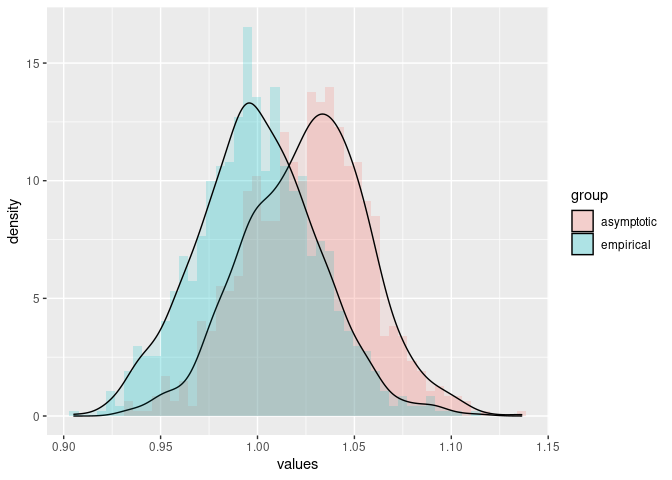
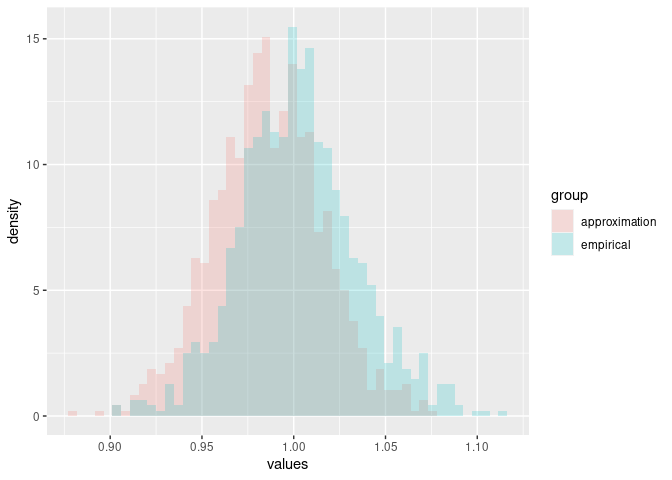
updates

diff --git a/README.md b/README.md
@@ -29,14 +29,6 @@ Consider an exponentially distributed random variable
 ``` r
 library(stats)
 library(tidyverse)
-#> ── Attaching packages ─────────────────────────────────────── tidyverse 1.3.1 ──
-#> ✓ ggplot2 3.3.5     ✓ purrr   0.3.4
-#> ✓ tibble  3.1.6     ✓ dplyr   1.0.7
-#> ✓ tidyr   1.1.4     ✓ stringr 1.4.0
-#> ✓ readr   2.1.1     ✓ forcats 0.5.1
-#> ── Conflicts ────────────────────────────────────────── tidyverse_conflicts() ──
-#> x dplyr::filter() masks stats::filter()
-#> x dplyr::lag()    masks stats::lag()
 n <- 1000
 rate <- 1
 x <- tibble(x=stats::rexp(n,rate))
@@ -48,18 +40,18 @@ from this sample (data frame) with:
 ``` r
 print(x)
 #> # A tibble: 1,000 × 1
-#>          x
-#>      <dbl>
-#>  1 0.283  
-#>  2 0.186  
-#>  3 1.73   
-#>  4 0.618  
-#>  5 0.00966
-#>  6 3.57   
-#>  7 2.42   
-#>  8 0.0681 
-#>  9 0.421  
-#> 10 1.03   
+#>        x
+#>    <dbl>
+#>  1 0.842
+#>  2 0.459
+#>  3 0.597
+#>  4 0.987
+#>  5 1.10 
+#>  6 0.680
+#>  7 0.773
+#>  8 1.59 
+#>  9 1.12 
+#> 10 0.750
 #> # … with 990 more rows
 ```
 
@@ -71,8 +63,7 @@ library(ggplot2)
 ggplot(x, aes(x=x)) + geom_histogram(aes(y=..density..),alpha=.2) +
     xlim(0,6) + 
     geom_function(fun=dexp)
-#> `stat_bin()` using `bins = 30`. Pick better value with `binwidth`.
-#> Warning: Removed 2 rows containing non-finite values (stat_bin).
+#> Warning: Removed 3 rows containing non-finite values (stat_bin).
 #> Warning: Removed 2 rows containing missing values (geom_bar).
 ```
 
@@ -85,15 +76,15 @@ estimation as implemented by the `algebraic.mle` package:
 library(algebraic.mle)
 (rate.hat <- mle_exp(x$x))
 #> $theta.hat
-#> [1] 1.025417
+#> [1] 0.9853597
 #> 
 #> $info
 #>          [,1]
-#> [1,] 951.0412
+#> [1,] 1029.936
 #> 
 #> $sigma
-#>             [,1]
-#> [1,] 0.001051479
+#>              [,1]
+#> [1,] 0.0009709337
 #> 
 #> $sample_size
 #> [1] 1000
@@ -106,7 +97,7 @@ We can show the point estimator with:
 
 ``` r
 point(rate.hat)
-#> [1] 1.025417
+#> [1] 0.9853597
 ```
 
 We can show the Fisher information and variance-covariance matrices
@@ -115,10 +106,10 @@ with:
 ``` r
 fisher_info(rate.hat)
 #>          [,1]
-#> [1,] 951.0412
+#> [1,] 1029.936
 vcov(rate.hat)
-#>             [,1]
-#> [1,] 0.001051479
+#>              [,1]
+#> [1,] 0.0009709337
 ```
 
 (If `rate.hat` had been a vector, `vcov` would have output a
@@ -130,15 +121,28 @@ We can show the confidence interval with:
 ``` r
 confint(rate.hat)
 #>       2.5 %   97.5 %
-#> 1 0.9720797 1.078753
+#> 1 0.9341063 1.036613
 ```
 
-### Sampling distribution of the MLE
+## Sampling distribution of the MLE
 
 In general, to estimate the sampling distribution, we generate
 *B* = 10000 samples (of size 1000) and their corresponding estimators,
-*θ̂*<sup>(1)</sup>, …, *θ̂*<sup>(*B*)</sup>. We observe the empirical
-sampling distribution of *θ̂* with:
+*θ̂*<sup>(1)</sup>, …, *θ̂*<sup>(*B*)</sup>.
+
+Normally, we do not have *B* samples, and if we did, we would gather all
+*B* samples into one sample (or used a weighted MLE), which would
+contain more (Fisher) information about *θ*.
+
+However, a nice property of MLEs is that, asymptotically, they converge
+to a normal distribution with a mean given by the true parameter, in
+this case *λ*, and a variance-covariance given by the inverse of the
+Fisher information matrix, i.e., *λ̂* ∼ *N*(*λ*,*I*<sup>−1</sup>(*λ*))
+where *I* is the Fisher information matrix, in this case
+*I*(*λ*) = *n*/*λ*<sup>2</sup>.
+
+We observe the empirical sampling distribution of *θ̂* overlaid with the
+theoretical asymptotic distribution with:
 
 ``` r
 B <- 1000
@@ -149,54 +153,43 @@ for (i in 1:B)
     data0[i] <- point(mle_exp(x))
 }
 ggplot(tibble(rate.hat=data0), aes(x=rate.hat)) +
-    geom_histogram(alpha=.2,bins=50) +
-    xlim(.89,1.11) + 
-    geom_function(fun=rnorm,sigma=sqrt(n/rate))
-#> Warning: Ignoring unknown parameters: sigma
-#> Warning: Removed 1 rows containing non-finite values (stat_bin).
-#> Warning: Removed 2 rows containing missing values (geom_bar).
+    geom_histogram(aes(y=..density..),alpha=.3,bins=50) +
+    geom_function(fun=function(x) { dnorm(x,mean=rate,sd=rate/sqrt(n)) })
 ```
 
 <img src="man/figures/README-unnamed-chunk-10-1.png" width="100%" />
 
-We overlay the theoretical normal density plot.
+We do not know *λ*, but we may estimate it from a sample, and thus we
+may approximate the sampling distribution of *λ̂* with
+*N*(*λ̂*,*I*<sup>−1</sup>(*λ̂*)).
 
-Normally, we do not have *B* samples, and if we did, we would
-incorporate all *B* samples into one sample, since the larger sample
-would contain more Fisher information about *θ*.
-
-However, a nice property of MLEs is that, asymptotically, they converge
-to a normal distribution with a mean given by the true parameter and a
-variance-covariance given by the inverse of the Fisher information
-matrix, i.e., *λ̂* ∼ *N*(*λ*,*I*<sup>−1</sup>(*λ*)) where *I* is the
-Fisher information matrix. In this case, it is
-*I*(*λ*) = *n*/*λ*<sup>2</sup>. We do not know *λ*, but we may estimate
-it from a sample, and thus we may approximate the sampling distribution
-of *λ̂* with *N*(*λ̂*,*I*<sup>−1</sup>(*λ̂*)).
-
-We sample from the asymptotic distribution of *λ̂* with:
+Since we are only giving one sample, we cannot do as we did before to
+provide *B* estimates of *λ*. However, we can sample from the
+approximation of the asymptotic distribution of *λ̂* with:
 
 ``` r
 data1 <- sampler(rate.hat)(B)
 ```
 
-Now, we wish to compare the empirical sampling distribution, `data0`,
-with the empirical asymptotic distribution, `data1`, along with its
-probability density plot:
+We visually compare the two MLE samples, `data0` and `data1`, with:
 
 ``` r
-data <- data.frame(values=c(data0,data1), group=c(rep("empirical",B),rep("asymptotic",B)))
+data <- data.frame(values=c(data0,data1), group=c(rep("empirical",B),rep("approximation",B)))
 
 ggplot(data,aes(x=values,fill=group)) +
-    geom_histogram(aes(y=..density..),position="identity", alpha=0.2, bins=50) +
-    geom_density(alpha=.1)
+    geom_histogram(aes(y=..density..),position="identity", alpha=0.2, bins=50)
 ```
 
 <img src="man/figures/README-unnamed-chunk-12-1.png" width="100%" />
 
-### Invariance property of the MLE
+Due to sampling error, we see that the approximation, the estimate of
+the asymptotic sampling distribution *N*(*λ̂*,*λ̂*/*n*<sup>1/2</sup>), is
+shifted to the left of the sample from the true distribution, but they
+appear to be quite similar otherwise.
 
-## Sum of maximum likelihood estimators
+## Invariance property of the MLE
+
+## Weighted MLE: a weighted sum of maximum likelihood estimators
 
 Since the variance-covariance of an MLE is inversely proportional to the
 Fisher information that the MLE is defined with respect to, we can

diff --git a/NEWS.md b/NEWS.md
@@ -1,0 +1,4 @@
+
+# `algebraic.mle` 0.1
+
+This is the initial alpha release.
